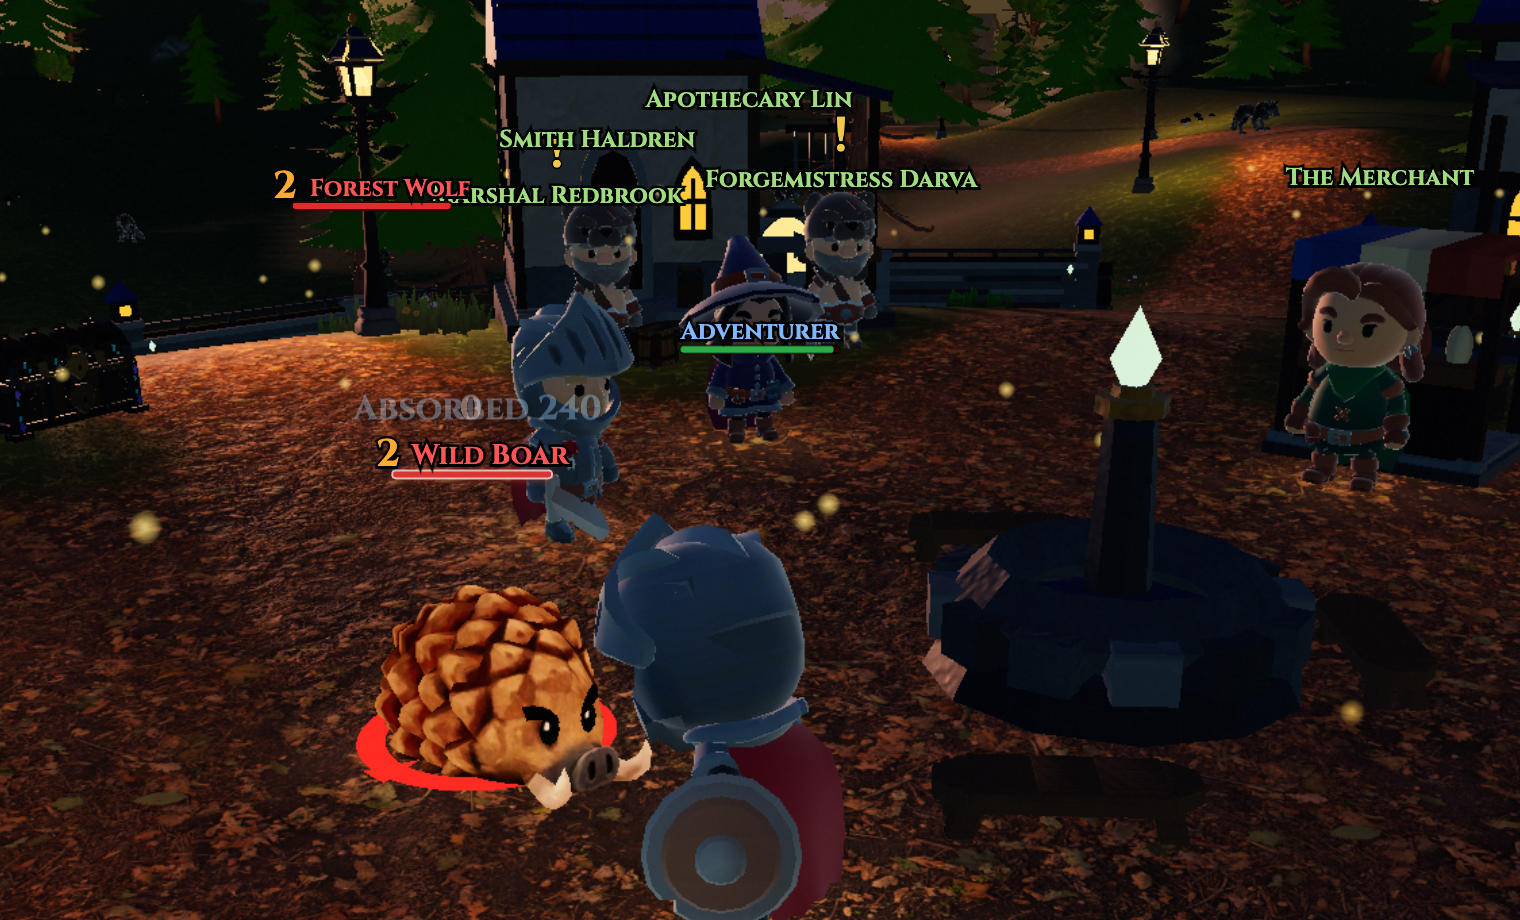
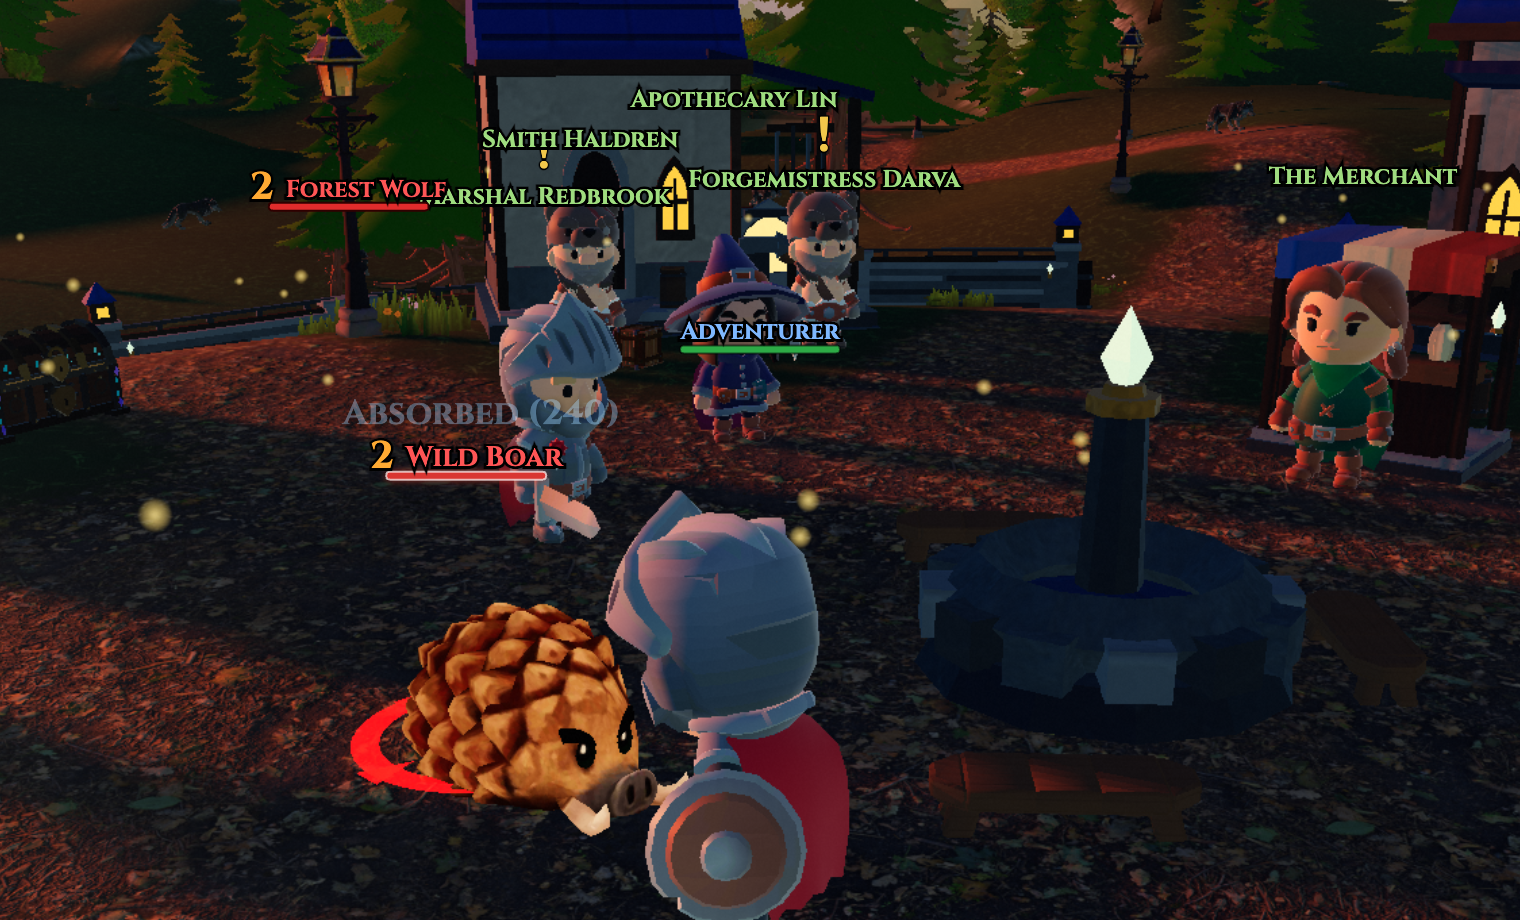
fix(ui): suppress the zero on a fully absorbed hit, and parenthesise the amount
A fully soaked hit floated a bare "0" next to the absorb text. That zero is
the misleading half of the pair: it reads as a broken attack rather than a
soaked one, which is the confusion this PR set out to remove. Heals already
guard on amount > 0 at their call site; damage simply never got the same
guard, so the asymmetry was accidental rather than chosen.

The decision lives in the pure core beside the role decision, so both sides
lose the number together and the avoidance words, which carry no amount and
can never be fully absorbed, are untouched.

Reads "Absorbed (240)" now, and the after screenshot is re-shot for both.

diff --git a/tests/fct_event.test.ts b/tests/fct_event.test.ts
@@ -297,3 +297,39 @@ describe('fctSpawnShape: determinism (same input -> same output)', () => {
     expect(fctSpawnShape(src)).toEqual(fctSpawnShape(src));
   });
 });
+
+describe('a fully absorbed hit floats no number', () => {
+  // The bare "0" is the misleading half of the pair: beside "Absorbed (240)" it
+  // reads as a broken attack rather than a soaked one. Heals already guard on
+  // amount > 0; damage never got the same guard.
+  const hit = (over = {}) =>
+    fctSpawnShape({
+      type: 'damage',
+      damageKind: 'hit',
+      ability: false,
+      crit: false,
+      isPlayerSource: true,
+      isPlayerTarget: false,
+      ...over,
+    });
+
+  it('suppresses the number on both sides when the shield ate all of it', () => {
+    expect(hit({ fullyAbsorbed: true })).toBeNull();
+    expect(hit({ fullyAbsorbed: true, isPlayerSource: false, isPlayerTarget: true })).toBeNull();
+  });
+
+  it('still floats the number when damage got through', () => {
+    // The negative that makes the case above decisive: a partial absorb is a real
+    // hit and must keep reporting what landed.
+    expect(hit({ fullyAbsorbed: false })).not.toBeNull();
+    expect(hit()).not.toBeNull();
+  });
+
+  it('leaves the avoidance words alone', () => {
+    // Miss/dodge/parry carry no amount, so they can never be fully absorbed and
+    // must not be caught by the new guard.
+    for (const kind of ['miss', 'dodge', 'parry', 'resist', 'evade'] as const) {
+      expect(hit({ damageKind: kind })).not.toBeNull();
+    }
+  });
+});

diff --git a/src/ui/fct_event.ts b/src/ui/fct_event.ts
@@ -29,6 +29,15 @@ export type FctSpawnSource =
       readonly crit: boolean;
       readonly isPlayerSource: boolean;
       readonly isPlayerTarget: boolean;
+      /**
+       * The whole hit landed inside an absorb shield: zero damage got through, and
+       * an absorb floater is being spawned for it separately. The NUMBER is then
+       * suppressed, because a bare "0" beside "Absorbed (240)" is the misleading
+       * half of the pair: it reads as a broken attack rather than a soaked one.
+       * Heals already work this way (their call site guards on `amount > 0`);
+       * damage simply never got the same guard.
+       */
+      readonly fullyAbsorbed?: boolean;
     }
   | {
       /**
@@ -67,6 +76,11 @@ export interface FctSpawnShape {
 export function fctSpawnShape(src: FctSpawnSource): FctSpawnShape | null {
   switch (src.type) {
     case 'damage': {
+      // A fully soaked hit floats no number on EITHER side: the absorb floater is
+      // the honest report, and the zero beside it says the opposite of the truth.
+      // Checked before the avoidance words on purpose, since those carry no amount
+      // and can never be fully absorbed.
+      if (src.fullyAbsorbed) return null;
       // Avoidance words always float; self vs other only flips the colour token.
       // Parry reuses the dodge colour token (its own word is spread on at the call site).
       if (

diff --git a/src/ui/hud.ts b/src/ui/hud.ts
@@ -10936,6 +10936,9 @@ export class Hud {
             crit: ev.crit,
             isPlayerSource,
             isPlayerTarget,
+            // Nothing got through and the absorb floater above already said so,
+            // so the number is suppressed rather than shown as a bare 0.
+            fullyAbsorbed: ev.amount === 0 && (ev.absorbed ?? 0) > 0,
           });
           if (
             hitShape &&

diff --git a/src/ui/i18n.resolved.generated/en_XA.ts b/src/ui/i18n.resolved.generated/en_XA.ts
@@ -367,7 +367,7 @@ export const en_XA: EnTranslations = {
       "unavailable": "[Úñšţúçķ íš úñáʋáíļáƀļé íñ ýóúŕ çúŕŕéñţ šţáţé.]"
     },
     "fct": {
-      "absorbed": "[Áƀšóŕƀéð {amount}]",
+      "absorbed": "[Áƀšóŕƀéð ({amount})]",
       "cheap": "[Çĥéáþ!]"
     },
     "emotes": {

diff --git a/src/ui/i18n.catalog/hud_chrome.ts b/src/ui/i18n.catalog/hud_chrome.ts
@@ -85,7 +85,7 @@ export const hudChromeStrings = {
   },
   // Floating combat text self-notes (proc consume labels, absorb readout).
   fct: {
-    absorbed: 'Absorbed {amount}',
+    absorbed: 'Absorbed ({amount})',
     cheap: 'Cheap!',
   },
   // Overhead emote display names (wheel tooltips/labels, editor items, overhead

diff --git a/src/ui/i18n.resolved.generated/en_CA.ts b/src/ui/i18n.resolved.generated/en_CA.ts
@@ -367,7 +367,7 @@ export const en_CA: EnTranslations = {
       "unavailable": "Unstuck is unavailable in your current state."
     },
     "fct": {
-      "absorbed": "Absorbed {amount}",
+      "absorbed": "Absorbed ({amount})",
       "cheap": "Cheap!"
     },
     "emotes": {

diff --git a/src/ui/i18n.resolved.generated/en.ts b/src/ui/i18n.resolved.generated/en.ts
@@ -367,7 +367,7 @@ export const en: EnTranslations = {
       "unavailable": "Unstuck is unavailable in your current state."
     },
     "fct": {
-      "absorbed": "Absorbed {amount}",
+      "absorbed": "Absorbed ({amount})",
       "cheap": "Cheap!"
     },
     "emotes": {
